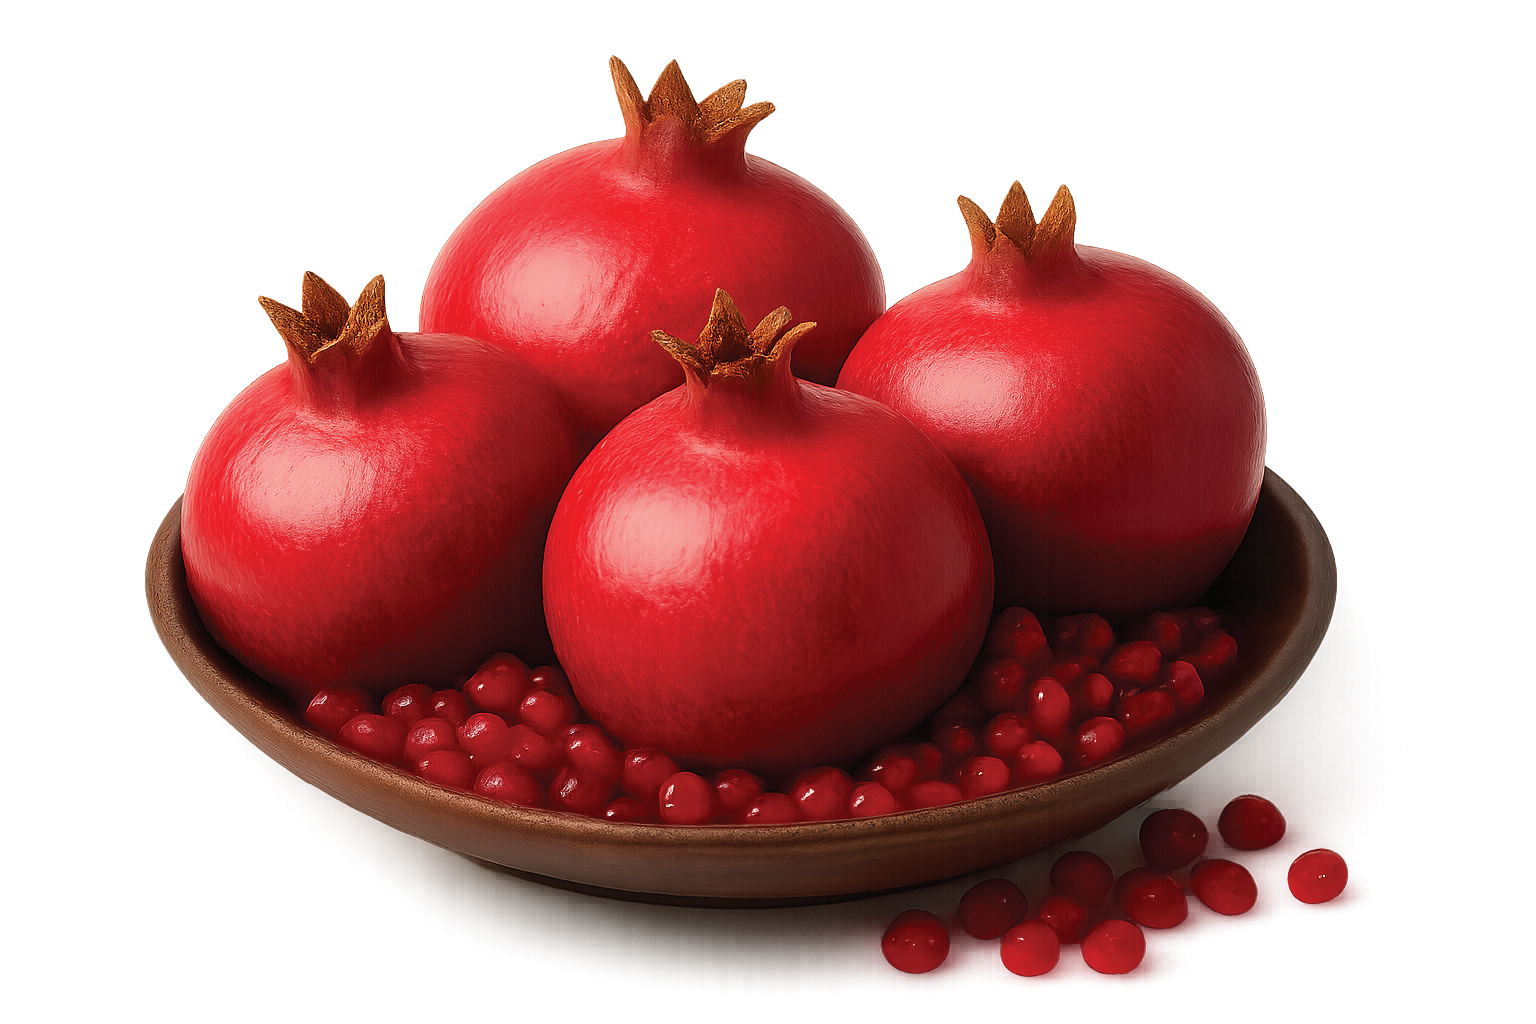
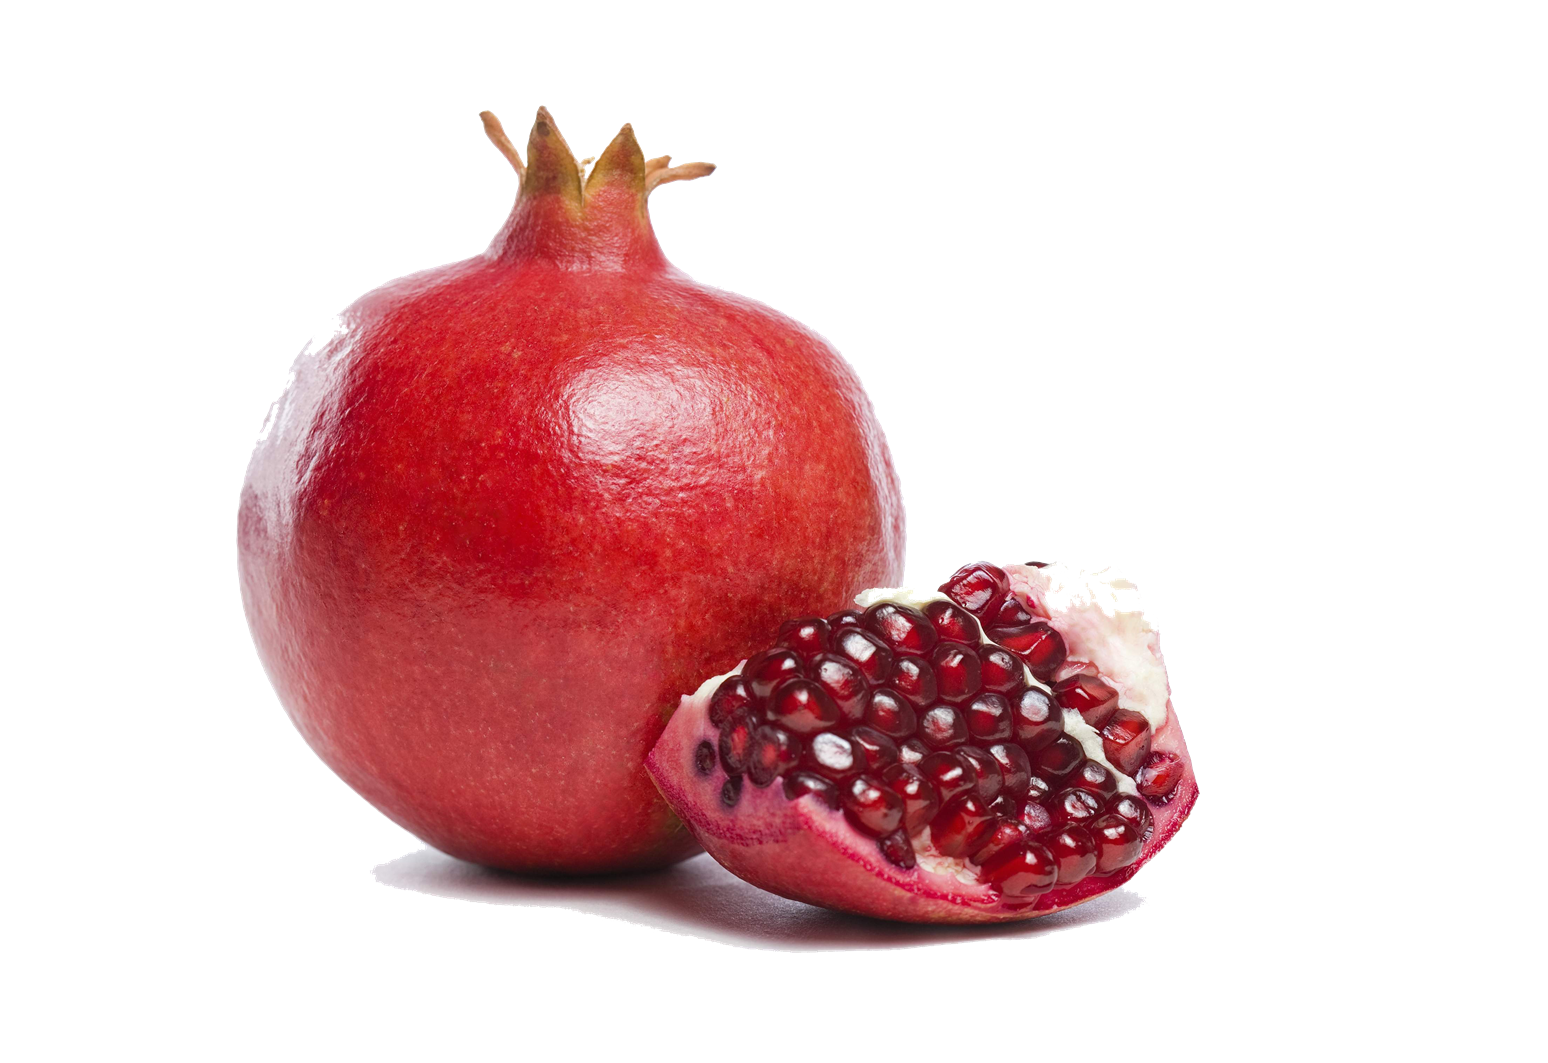
fix

diff --git a/Badammi/shop.html b/Badammi/shop.html
@@ -219,7 +219,8 @@ async function loadProducts() {
         const fruits = await response.json();
 
         const filteredFruitsFresh = fruits.filter(fruit =>
-            fruit.type.toLowerCase() === "fruit"
+            fruit.type.toLowerCase() === "fruit" || fruit.type.toLowerCase() === "bottle"
+            
         );
 
         const filteredFruitsDried = fruits.filter(fruit =>
@@ -580,7 +581,7 @@ document.addEventListener("DOMContentLoaded", async () => {
         const freshFruits = products.filter(p => p.type && p.type.toLowerCase() === "fruit");
         const freshVegetables = products.filter(p => p.type && p.type.toLowerCase() === "vegetables");
         const driedProducts = products.filter(p => p.type && p.type.toLowerCase() === "dried");
-
+        
 
         const freshMenu = document.getElementById("fresh");
         if (freshMenu) {

diff --git a/BadammiAPI/obj/Debug/net9.0/BadammiAPI.AssemblyInfo.cs b/BadammiAPI/obj/Debug/net9.0/BadammiAPI.AssemblyInfo.cs
@@ -14,7 +14,7 @@ using System.Reflection;
 [assembly: System.Reflection.AssemblyCompanyAttribute("BadammiAPI")]
 [assembly: System.Reflection.AssemblyConfigurationAttribute("Debug")]
 [assembly: System.Reflection.AssemblyFileVersionAttribute("1.0.0.0")]
-[assembly: System.Reflection.AssemblyInformationalVersionAttribute("1.0.0+76af17d225d725ffd13a8050e5baaeb8a9b14e37")]
+[assembly: System.Reflection.AssemblyInformationalVersionAttribute("1.0.0+d7c16ce17873359191a7adbe471d1ae7d765a909")]
 [assembly: System.Reflection.AssemblyProductAttribute("BadammiAPI")]
 [assembly: System.Reflection.AssemblyTitleAttribute("BadammiAPI")]
 [assembly: System.Reflection.AssemblyVersionAttribute("1.0.0.0")]
